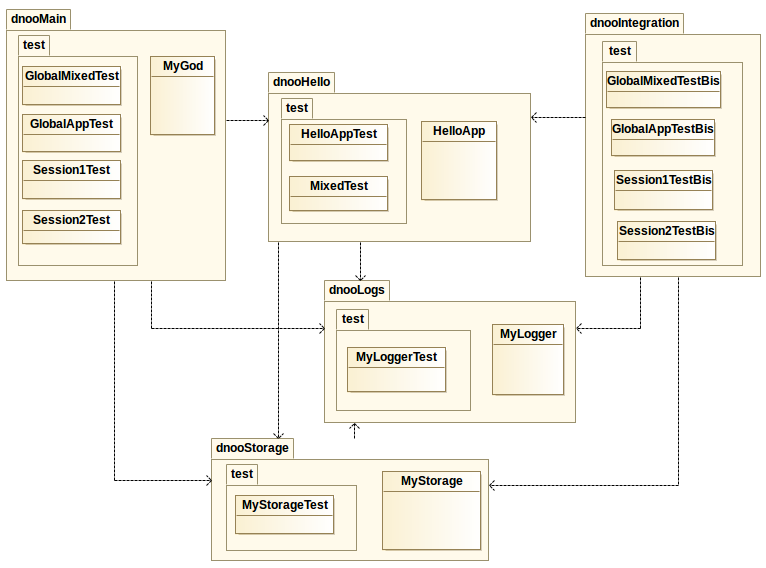
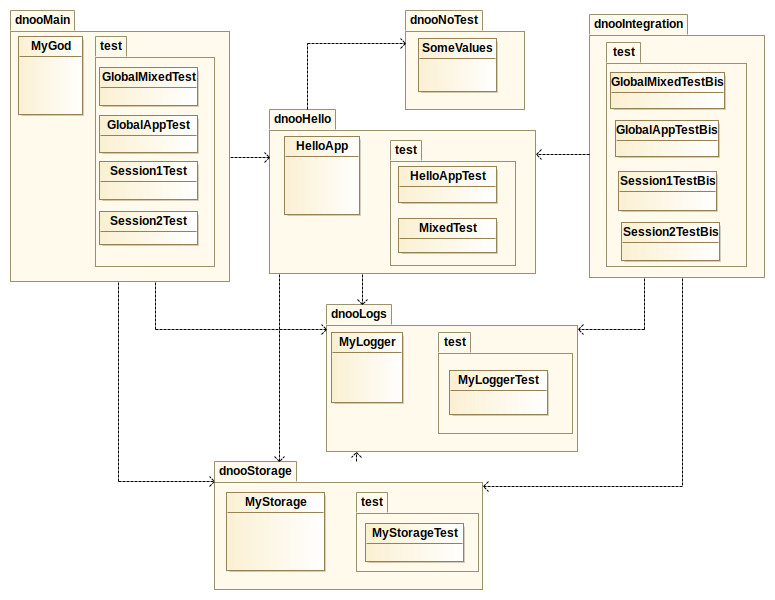
adding a module with no test

Changed region(s): [[0.0, 0.0, 1.0, 0.9877], [0.3903, 0.0, 0.6906, 0.1796]]

diff --git a/dnooNoTest/src/main/java/eu/stamp_project/examples/dnoo/dnooNoTest/SomeValues.java b/dnooNoTest/src/main/java/eu/stamp_project/examples/dnoo/dnooNoTest/SomeValues.java
@@ -1,0 +1,63 @@
+package eu.stamp_project.examples.dnoo.dnooNoTest;
+
+// **********************************************************************
+
+// **********************************************************************
+public class SomeValues
+{
+    // **********************************************************************
+    // public
+    // **********************************************************************
+    // ******** attributes
+    public String getName()
+    {
+        return(_Name);
+    }
+
+    // ********
+    public void setName(String value)
+    {
+        _Name = value;
+    }
+
+    // **********************************************************************
+    public boolean getIsUsed()
+    {
+        return(_IsUsed);
+    }
+
+    // ********
+    public void setIsUsed(boolean value)
+    {
+        _IsUsed = value;
+    }
+
+    // **********************************************************************
+    public int getCount()
+    {
+        return(_Count);
+    }
+
+    // ********
+    public void setCount(int value)
+    {
+        _Count = value;
+    }
+
+    // **********************************************************************
+    // ******** methods
+    public SomeValues(int count, String name)
+    {
+        setName(name);
+        setIsUsed(false);
+        setCount(count);
+    }
+
+    // **********************************************************************
+    // protected
+    // **********************************************************************
+    // ******** attributes
+    protected String _Name;
+    protected boolean _IsUsed;
+    protected int _Count;
+}

diff --git a/dnooHello/src/main/java/eu/stamp_project/examples/dnoo/dnooHello/HelloApp.java b/dnooHello/src/main/java/eu/stamp_project/examples/dnoo/dnooHello/HelloApp.java
@@ -3,6 +3,7 @@ package eu.stamp_project.examples.dnoo.dnooHello;
 // **********************************************************************
 import eu.stamp_project.examples.dnoo.dnooStorage.MyStorage;
 import eu.stamp_project.examples.dnoo.dnooLogs.MyLogger;
+import eu.stamp_project.examples.dnoo.dnooNoTest.SomeValues;
 
 // **********************************************************************
 public class HelloApp
@@ -92,6 +93,7 @@ public class HelloApp
 
         String indent = "-";
         String countString = Integer.toString(MyPrintCount);
+        MyValues = new SomeValues(MyPrintCount, MyTracesName);
 
         if (MyTracesName.length() > 0)
         {
@@ -179,6 +181,25 @@ public class HelloApp
     }
 
     // **********************************************************************
+    public int cardMyValues()
+    {
+        int theCard = 0;
+
+        if (MyValues != null)
+        {
+            theCard = 1;
+        }
+
+        return(theCard);
+    }
+
+    // **********
+    public SomeValues getMyValues()
+    {
+        return(MyValues);
+    }
+
+    // **********************************************************************
     // protected
     // **********************************************************************
     // ******** methods
@@ -200,5 +221,6 @@ public class HelloApp
     private int MyPrintCount;
     private String MyTracesName;
     private MyStorage MyTraces;
+    private SomeValues MyValues;
     private boolean ShouldPrintOnStdout;
 }

diff --git a/dnooMain/src/test/java/eu/stamp_project/examples/dnoo/dnooMain/GlobalAppTest.java b/dnooMain/src/test/java/eu/stamp_project/examples/dnoo/dnooMain/GlobalAppTest.java
@@ -28,6 +28,8 @@ public class GlobalAppTest
 
         myApp = new HelloApp(myCount, myTracesName);
         myApp.run();
+        assertEquals(true, myApp.getMyValues().getCount() == myCount);
+        assertEquals(true, myApp.getMyValues().getName().equals(myTracesName));
 
         fileContent = new MyStorage(myApp.getMyTracesName());
         fileContent.readData();

diff --git a/README.md b/README.md
@@ -3,12 +3,13 @@ DNOO
 
 A very simple application to test testing tools, but with a multi module structure. :-))))
 
+
 Compiling
--------------
+---------
 mnv install
 
 Running Descartes
-------------------
+-----------------
 run_pitmp_descartes.sh
 
 Application classes
